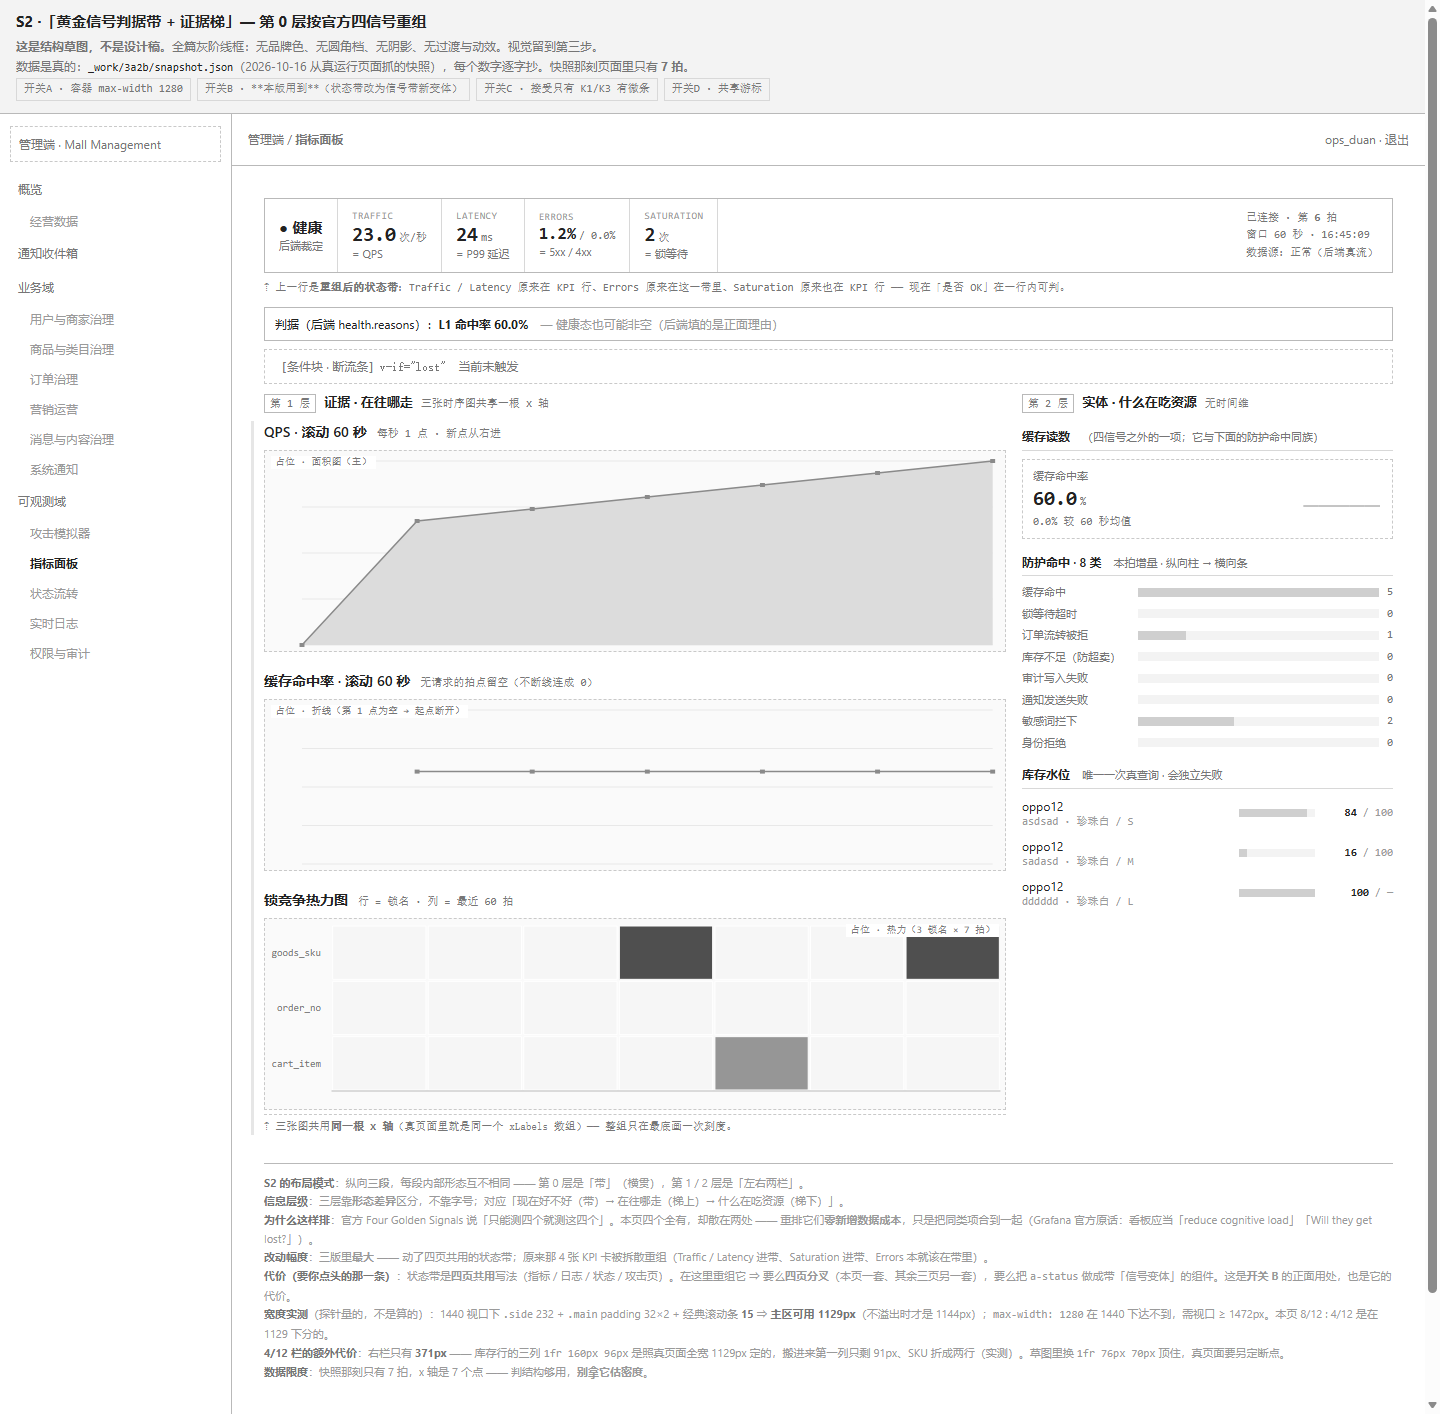
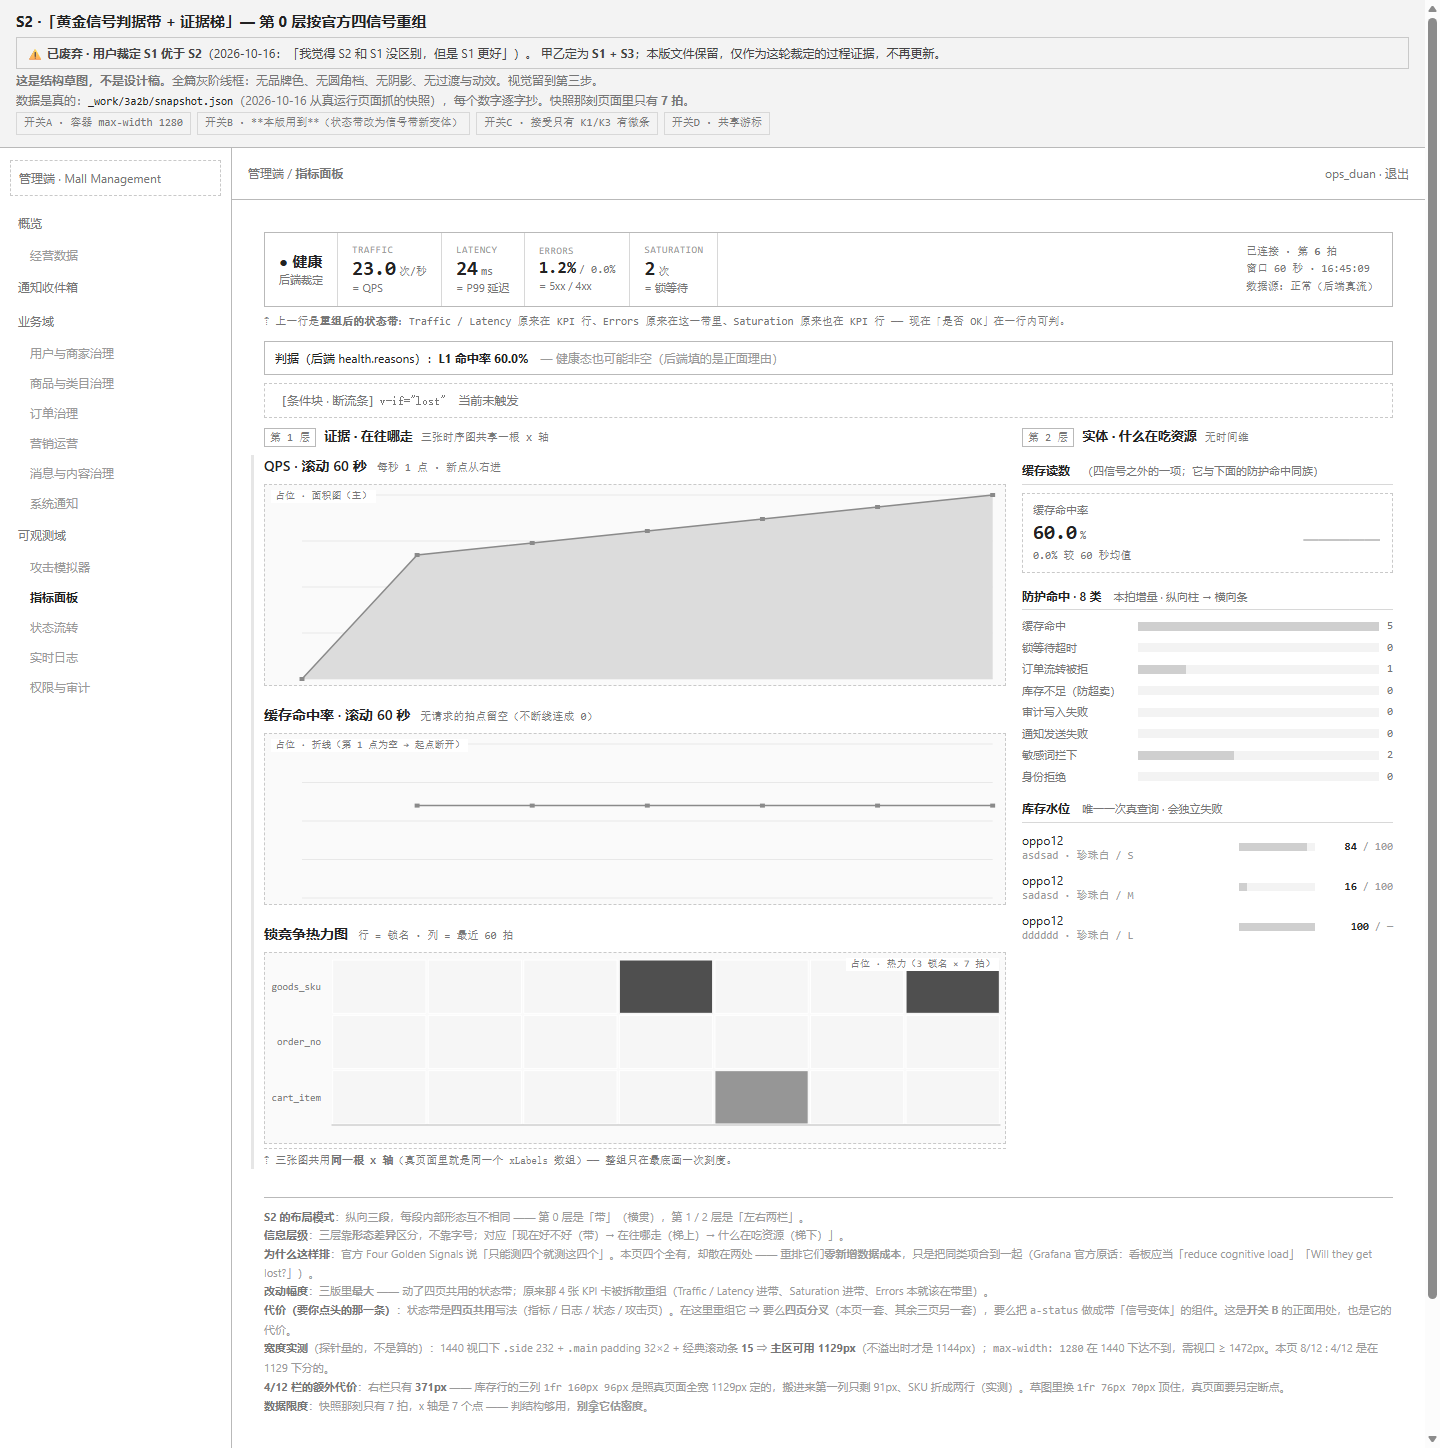
docs(block7): 3a.2b 补笔 —— S2 按用户裁定标注废弃（S1 优于 S2）
用户 2026-10-16 裁定：「我觉得 S2 和 S1 没区别，但是 S1 更好」⇒ 甲乙定为 S1 + S3。
本笔只在 S2 的 .wire-head 顶部加一条废弃横幅（含裁定原话与日期），
文件本身保留，作为这轮裁定的过程证据，不再更新。

· HTML +3/-0（仅横幅三行）；PNG 按新头部重出。
· 复跑 scripts/probes/probe-b7a2b-struct-shots.mjs：28 项 / 0 失败。

不 push / 不 merge / 不开 PR。

diff --git a/docs/美化/c3-admin-preview/S2-黄金信号判据带.html b/docs/美化/c3-admin-preview/S2-黄金信号判据带.html
@@ -47,6 +47,9 @@
 
 <div class="wire-head">
   <h1>S2 ·「黄金信号判据带 + 证据梯」— 第 0 层按官方四信号重组</h1>
+  <p style="border:1px solid #c9c9c9;background:#f3f3f3;padding:6px 10px;color:#444">
+    <b>⚠ 已废弃 · 用户裁定 S1 优于 S2</b>（2026-10-16：「我觉得 S2 和 S1 没区别，但是 S1 更好」）。
+    甲乙定为 <b>S1 + S3</b>；本版文件保留，仅作为这轮裁定的过程证据，不再更新。</p>
   <p><b>这是结构草图，不是设计稿。</b>全篇灰阶线框：无品牌色、无圆角档、无阴影、无过渡与动效。视觉留到第三步。</p>
   <p>数据是真的：<code>_work/3a2b/snapshot.json</code>（2026-10-16 从真运行页面抓的快照），每个数字逐字抄。快照那刻页面里只有 <b>7 拍</b>。</p>
   <p class="ruling">
